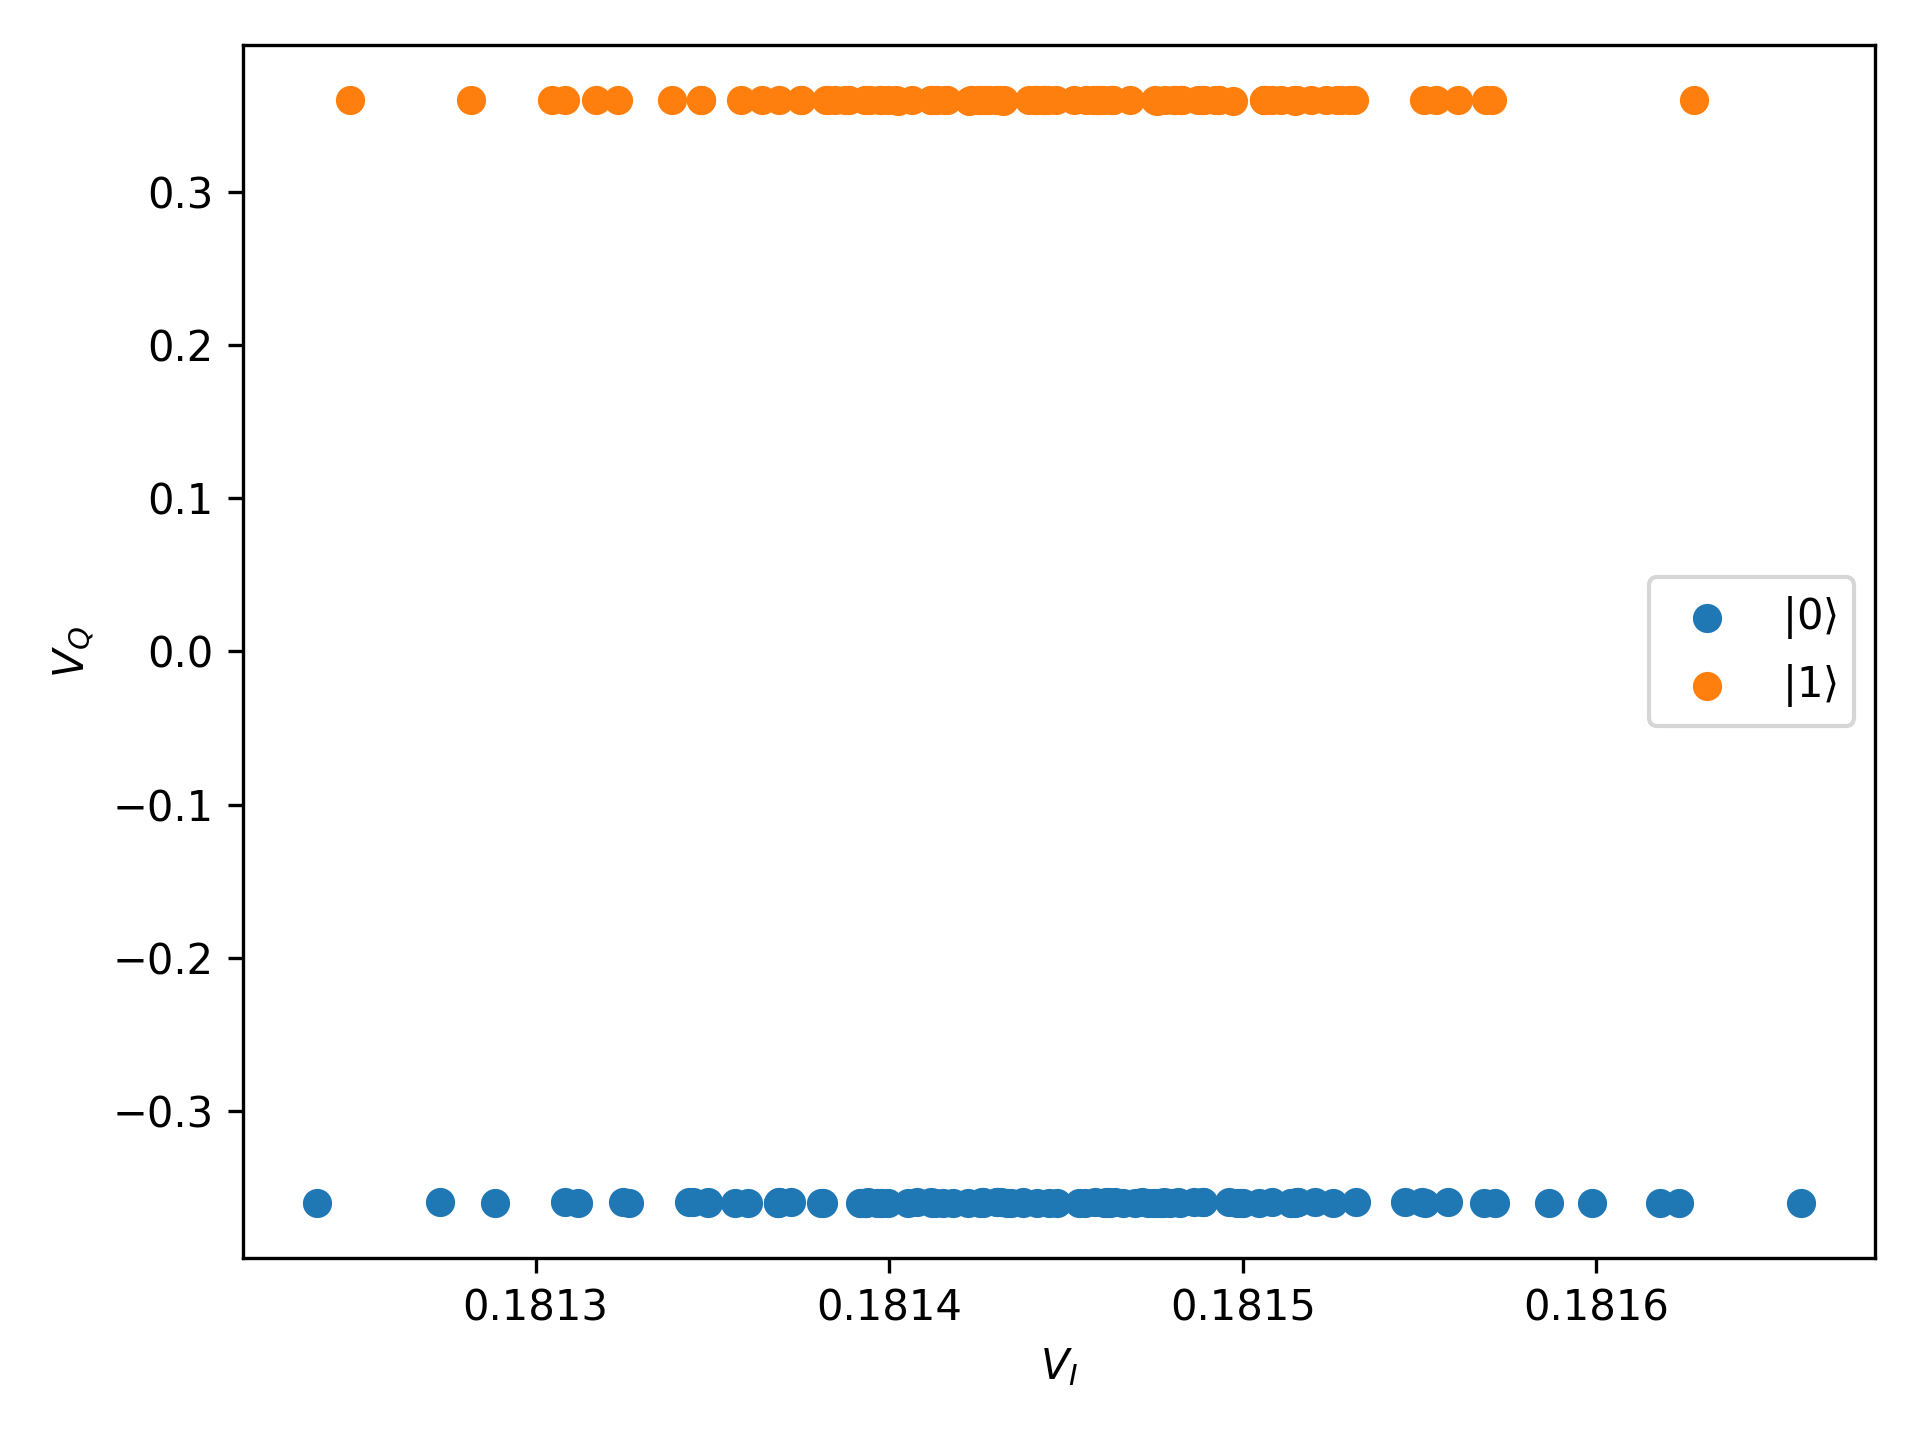
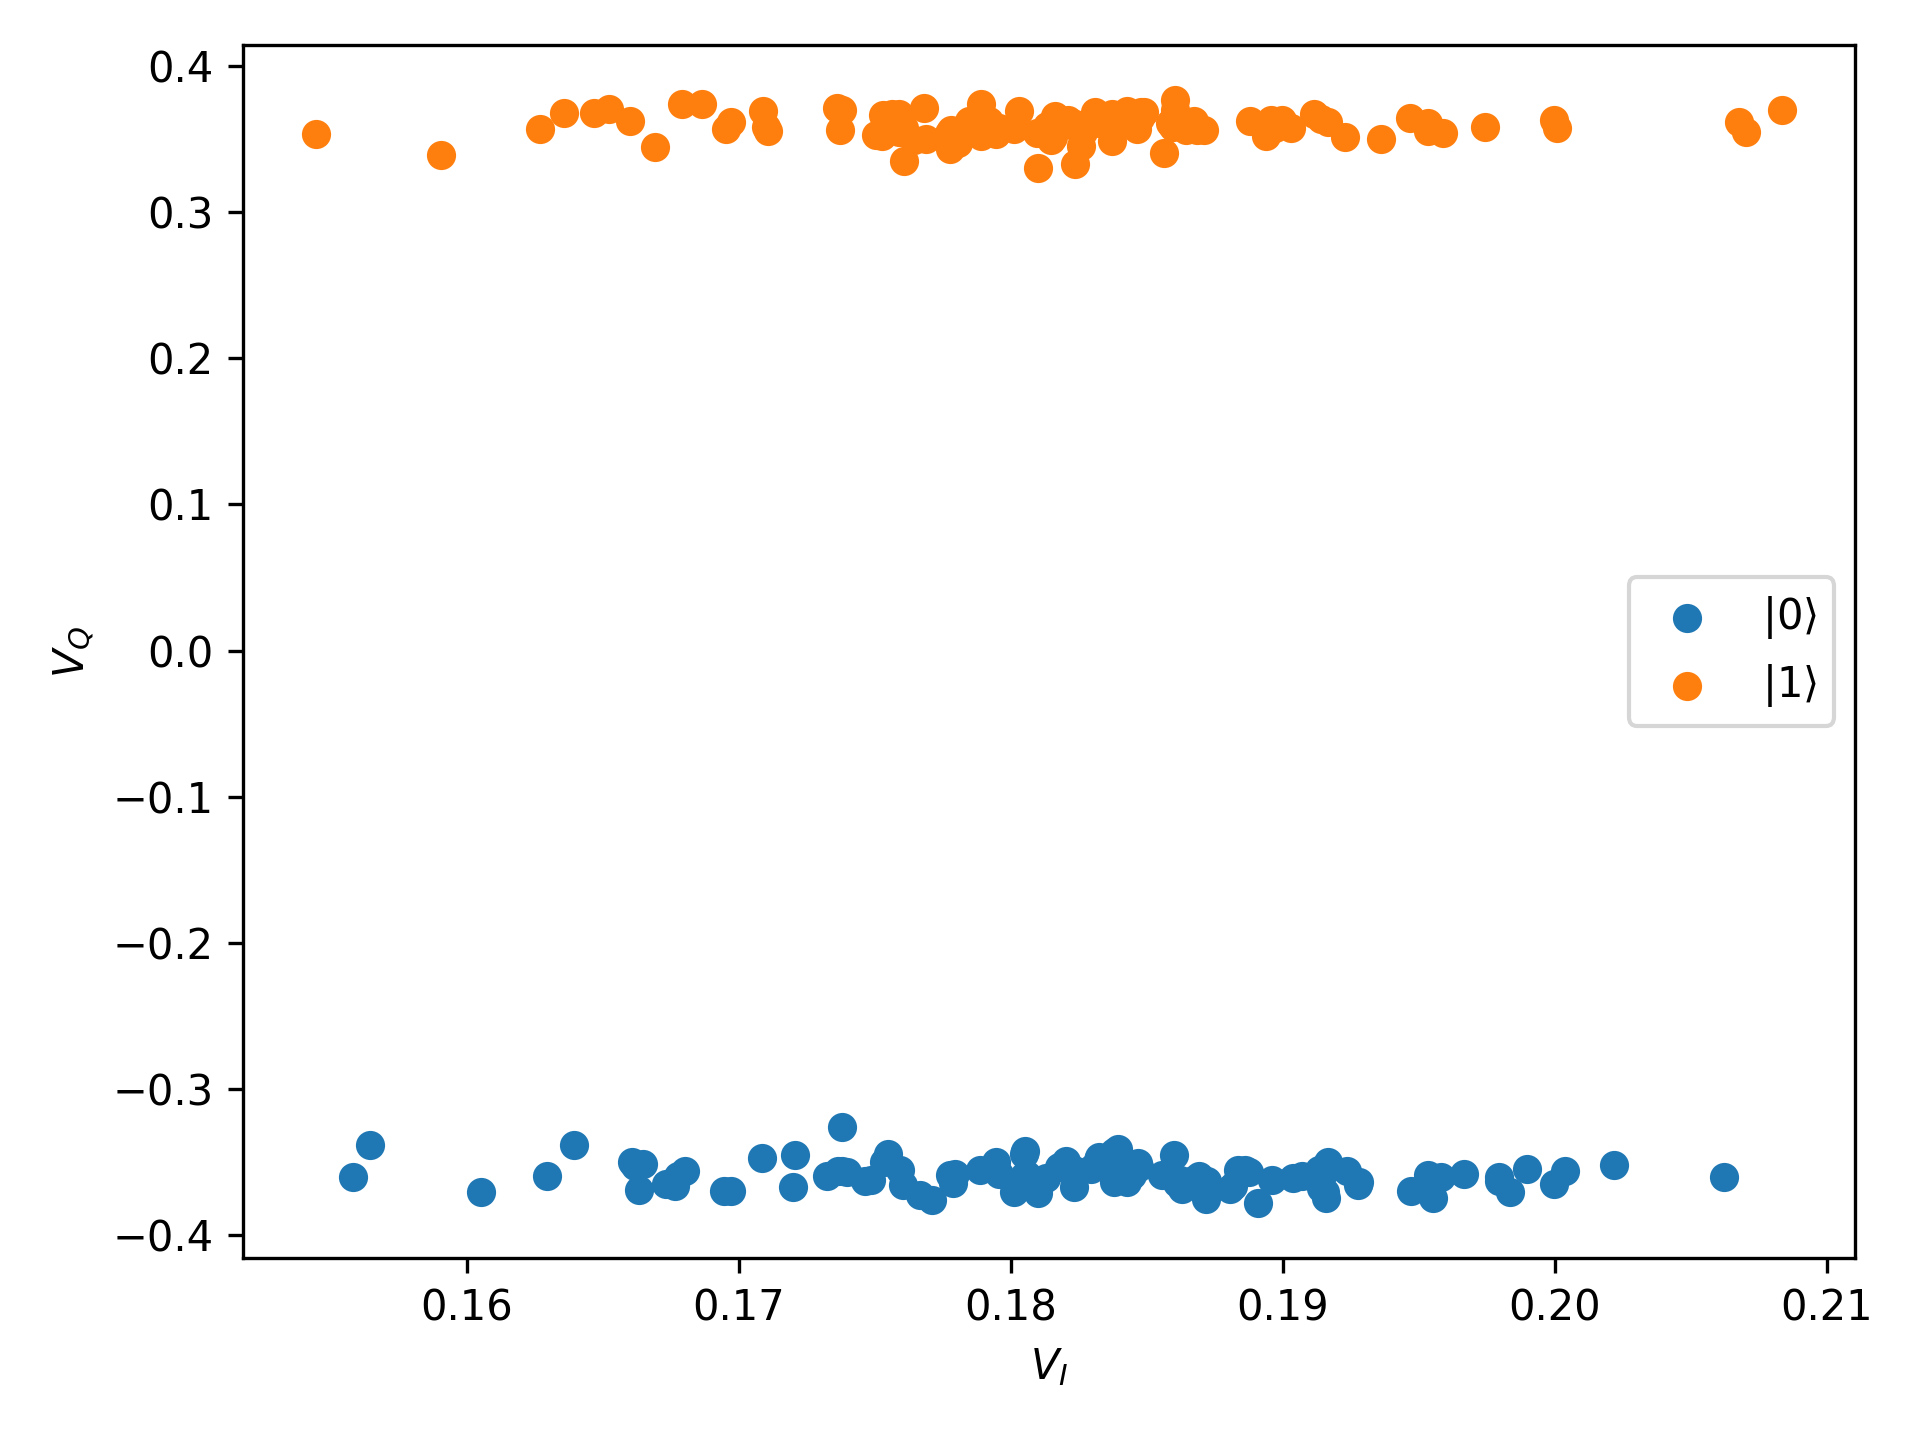
provided additional descriptions, improved performance of the readout setup (dispersive effect, SNR effect)

diff --git a/readout_example/readout_example.py b/readout_example/readout_example.py
@@ -7,16 +7,20 @@ from qibolab.pulses import ReadoutPulse
 bare_resonator_frequency = 5.045e9
 nshots = 100
 
-SNR = 50 # dB
+SNR = 40 # dB
 READOUT_AMPLITUDE = 1
-NOISE_AMP = np.power(10, -SNR / 20)
-AWGN = lambda t: np.random.normal(loc=0, scale=NOISE_AMP, size=len(t))
+NOISE_AMP = np.power(10, -SNR/20)
+AWGN = lambda t: np.random.normal(loc=0, scale=NOISE_AMP, size=len(t))*4.5e1
 
 qb = Qubit(0, bare_resonator_frequency=bare_resonator_frequency, drive_frequency=3.99e9, anharmonicity=-263e6)
 readout = ReadoutSimulator(qubit=qb, g=10e6, noise_model=AWGN, internal_Q=2.5e6, coupling_Q=6e4, sampling_rate=1966.08e6)
 
 
 #demonstrates effect of state dependent dispersive shift on amplitude of reflected microwave from resonator; 
+#we first prepare a centre frequency for frequency sweeping, which may be modified during analysis, to search for the dispersive shift 
+#note that dispersive shift and lamb shift depends on detuning(i.e.: drive_frequency - bare_resonator_frequency)
+#lamb shifted frequncy would then be shifted dispersively depending on ground_state or excited state of qubit
+#fitting of |S21| is discussed here: https://github.com/qiboteam/qibocal/pull/917
 span = 1e6
 center_frequency = bare_resonator_frequency 
 freq_sweep = np.linspace(center_frequency - span / 2, center_frequency + span / 2, 1000)
@@ -36,7 +40,13 @@ plt.show()
 
 freq_sweep *= 1e9
 
-#demonstrates effect of state dependent dispersive shift on phase of reflected microwave from resonator; (for domain of [-pi/2,pi/2])
+
+
+#demonstrates effect of state dependent dispersive shift on phase of reflected microwave from resonator; (for codomain of [-pi/2,pi/2])
+#note that we can always shift the phase/angle by pi, as a result of arctan(), as there are two angles resulting in the same tan() value
+#this means that we can shift the positive angles downwards by subtracting them with pi, resulting in codomain of [0,-2pi]
+#for a clearer picture (using codomain of [0,-2pi] @see https://arxiv.org/pdf/1904.06560), we can see that 
+#the phase response of resonator shall be maximally separated when resonator is probed just in-between two qubit-state dependent resonance frequencies.
 y_gnd1 = np.angle(readout.ground_s21(freq_sweep))
 y_exc1 = np.angle(readout.excited_s21(freq_sweep))
 freq_sweep /= 1e9
@@ -50,7 +60,13 @@ plt.tight_layout()
 # plt.savefig("phase.png", dpi=300)
 plt.show()
 
+
+
 #demonstrates the separation of V_I/V_Q data of reflected microwave on V_I/V_Q plane
+#we prepare a lambshifted readout pulse frequency according to the first and second demonstration, 
+#so that we can inspect the phase response of resonator (being plotted on V_I/V_Q plane),
+#which shall be maximally separated when resonator is probed just in-between two qubit-state dependent resonance frequencies.
+#in other words, the data probed from resonator for particular qubit states should be well separated as demonstrated previously
 ro_frequency = 5.0450e9 + readout.lambshift
 ro_pulse = ReadoutPulse(start=0, duration=1000, amplitude=READOUT_AMPLITUDE, frequency=ro_frequency, shape="Rectangular()", relative_phase=0)
 
@@ -58,13 +74,14 @@ rgnd = [readout.simulate_ground_state_iq(ro_pulse) for k in range(nshots)]
 rexc = [readout.simulate_excited_state_iq(ro_pulse) for k in range(nshots)]
 plt.scatter(np.real(rgnd), np.imag(rgnd), label=r"$|0\rangle$")
 plt.scatter(np.real(rexc), np.imag(rexc), label=r"$|1\rangle$")
-# plt.xlim([0,1])
+# when we set NOISE_AMP to zero, using the follow axes limits allow us to see the maximally separated data
+# plt.xlim([0,1])       
 # plt.ylim([-1,1])
 plt.xlabel(r"$V_I$")
 plt.ylabel(r"$V_Q$")
 plt.legend()
 plt.tight_layout()
-# plt.savefig("IQ.png", dpi=300)
+plt.savefig("IQ.png", dpi=300)
 plt.show()
 
 

diff --git a/src/qibolab/instruments/emulator/readout.py b/src/qibolab/instruments/emulator/readout.py
@@ -20,8 +20,9 @@ def lamb_shift(g, delta):
     return g * g / delta
 
 def dispersive_shift(g, delta, alpha):
-    """Calculates the dispersive shift of the readout resonator for depending on state of the qubit
-    @see https://arxiv.org/pdf/1904.06560, equation 146, we omit the negative sign as we included it in our definition of delta
+    """Calculates the dispersive shift of the readout resonator for depending on the state of the qubit
+    @see https://arxiv.org/pdf/1904.06560, equation 146, negative sign is omitted as it is included in the definition of delta
+    a factor of two is added for better approximation of raw data, comparing with equation 35 from https://arxiv.org/pdf/2106.06173 
 
     Args:
         g (float): Coupling strength between readout resonator and qubit in Hz.
@@ -31,7 +32,7 @@ def dispersive_shift(g, delta, alpha):
     Returns:
         chi (float): Dispersive shift in Hz.
     """
-    return g *g /delta *(1/(1+(delta/alpha)))
+    return 2 * g *g /delta *(1/(1+(delta/alpha)))
 
 
 def s21_function(resonator_frequency, total_Q, coupling_Q):
@@ -65,12 +66,11 @@ class ReadoutSimulator:
             sampling_rate (float): Sampling rate of the ADC/digitizer.
         """
         #maintaining the definition of |0> = |e> = (1 0) with the JC Hamiltonian model
+        #ground_state_frequency = dressed resonator frequency when qubit is in ground state (vice versa for excited_state_frequency)
         delta = qubit.drive_frequency - qubit.bare_resonator_frequency
-        dressed_frequency = qubit.bare_resonator_frequency - lamb_shift(g,delta)
-        ground_state_frequency = dressed_frequency - dispersive_shift(g, delta, qubit.anharmonicity)
-        excited_state_frequency = dressed_frequency + dispersive_shift(g, delta, qubit.anharmonicity)
-        # print(f"ground_state_frequency= {ground_state_frequency}; excited_state_frequency= {excited_state_frequency}")
-
+        ground_state_frequency = qubit.bare_resonator_frequency - lamb_shift(g,delta) - dispersive_shift(g, delta, qubit.anharmonicity)    
+        excited_state_frequency = qubit.bare_resonator_frequency - lamb_shift(g,delta) + dispersive_shift(g, delta, qubit.anharmonicity)
+        
         self.lambshift = -lamb_shift(g,delta)
         self.noise_model = noise_model
         self.sampling_rate = sampling_rate
@@ -119,12 +119,11 @@ class ReadoutSimulator:
         t = np.arange(start, start + len(env_I)) / self.sampling_rate       #t_n  
      
         #Low-pass filtered I-component (with intermediate frequency = carrier frequency)
-        I_filtered = reflected_amplitude*np.cos(2*np.pi*t*pulse.frequency+ pulse.relative_phase + reflected_phase) + self.noise_model(t)
-
+        i_filtered = reflected_amplitude*np.cos(2*np.pi*t*pulse.frequency+ pulse.relative_phase + reflected_phase) + self.noise_model(t)
         #Low-pass filtered Q-component 
-        Q_filtered = reflected_amplitude*np.sin(2*np.pi*t*pulse.frequency+ pulse.relative_phase + reflected_phase) + self.noise_model(t)
+        q_filtered = reflected_amplitude*np.sin(2*np.pi*t*pulse.frequency+ pulse.relative_phase + reflected_phase) + self.noise_model(t)
 
-        z = I_filtered+1j*Q_filtered 
+        z = i_filtered+1j*q_filtered 
         z *= np.exp(-1j*2*np.pi*t*pulse.frequency)
         z = np.sum(z)/len(t)
 
